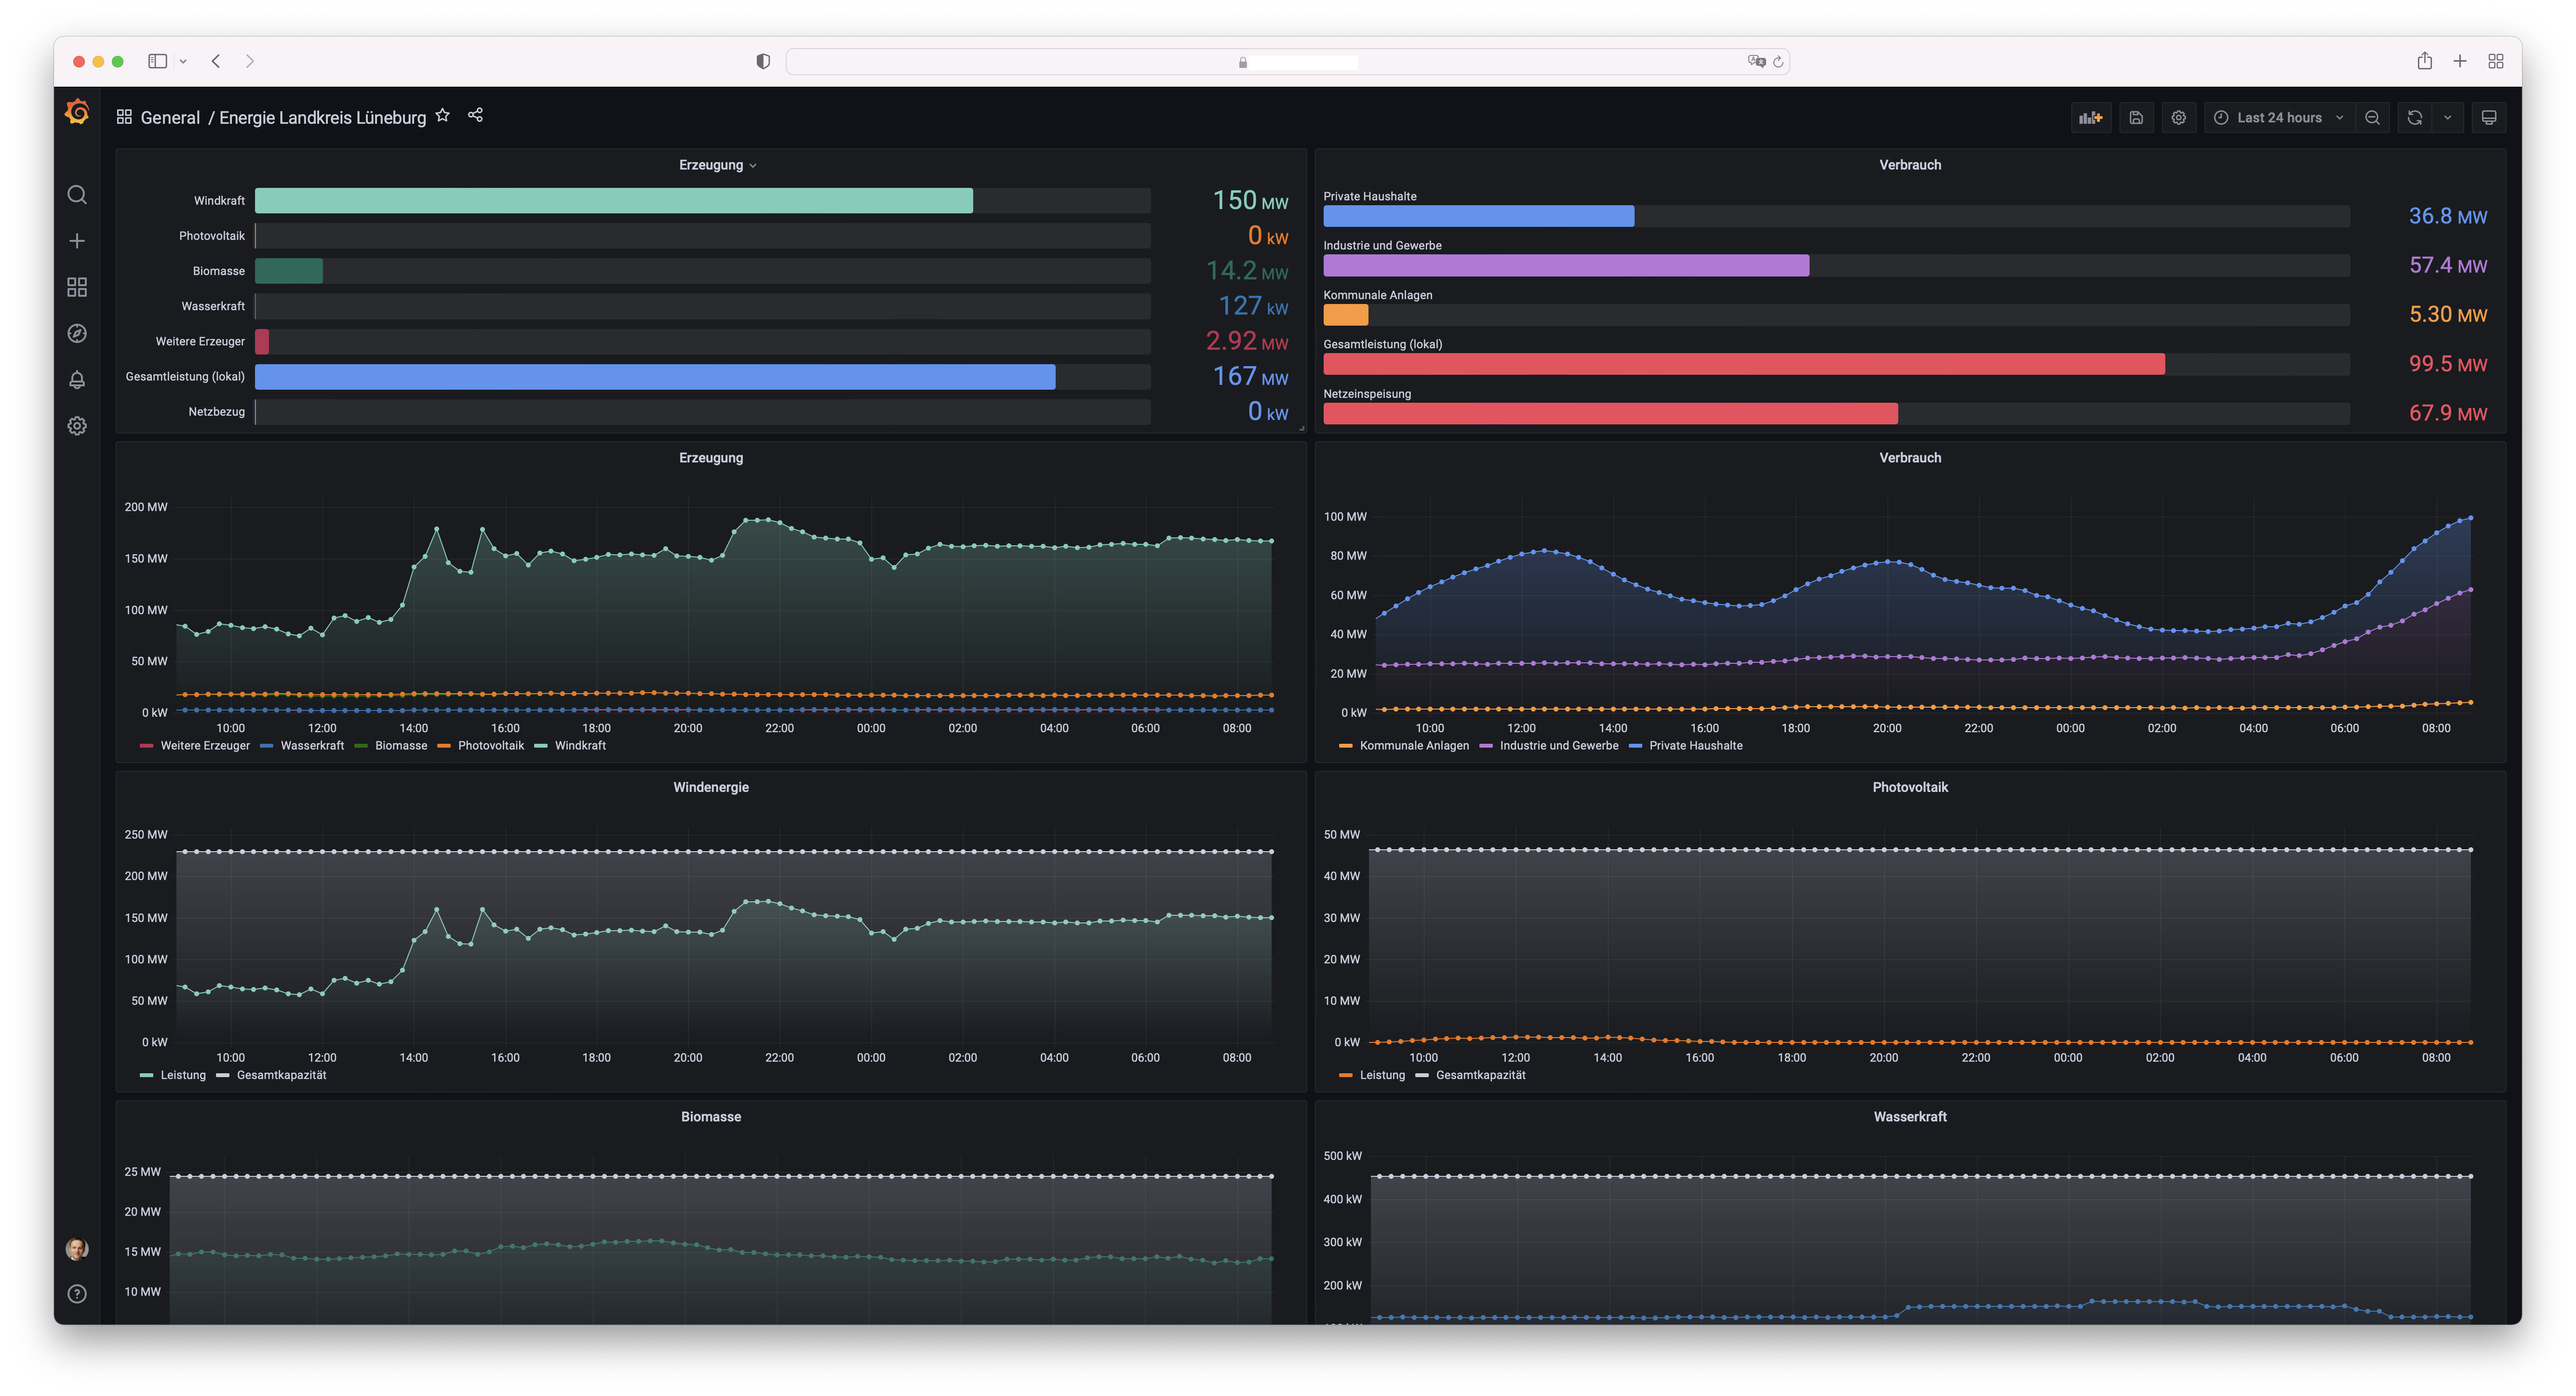
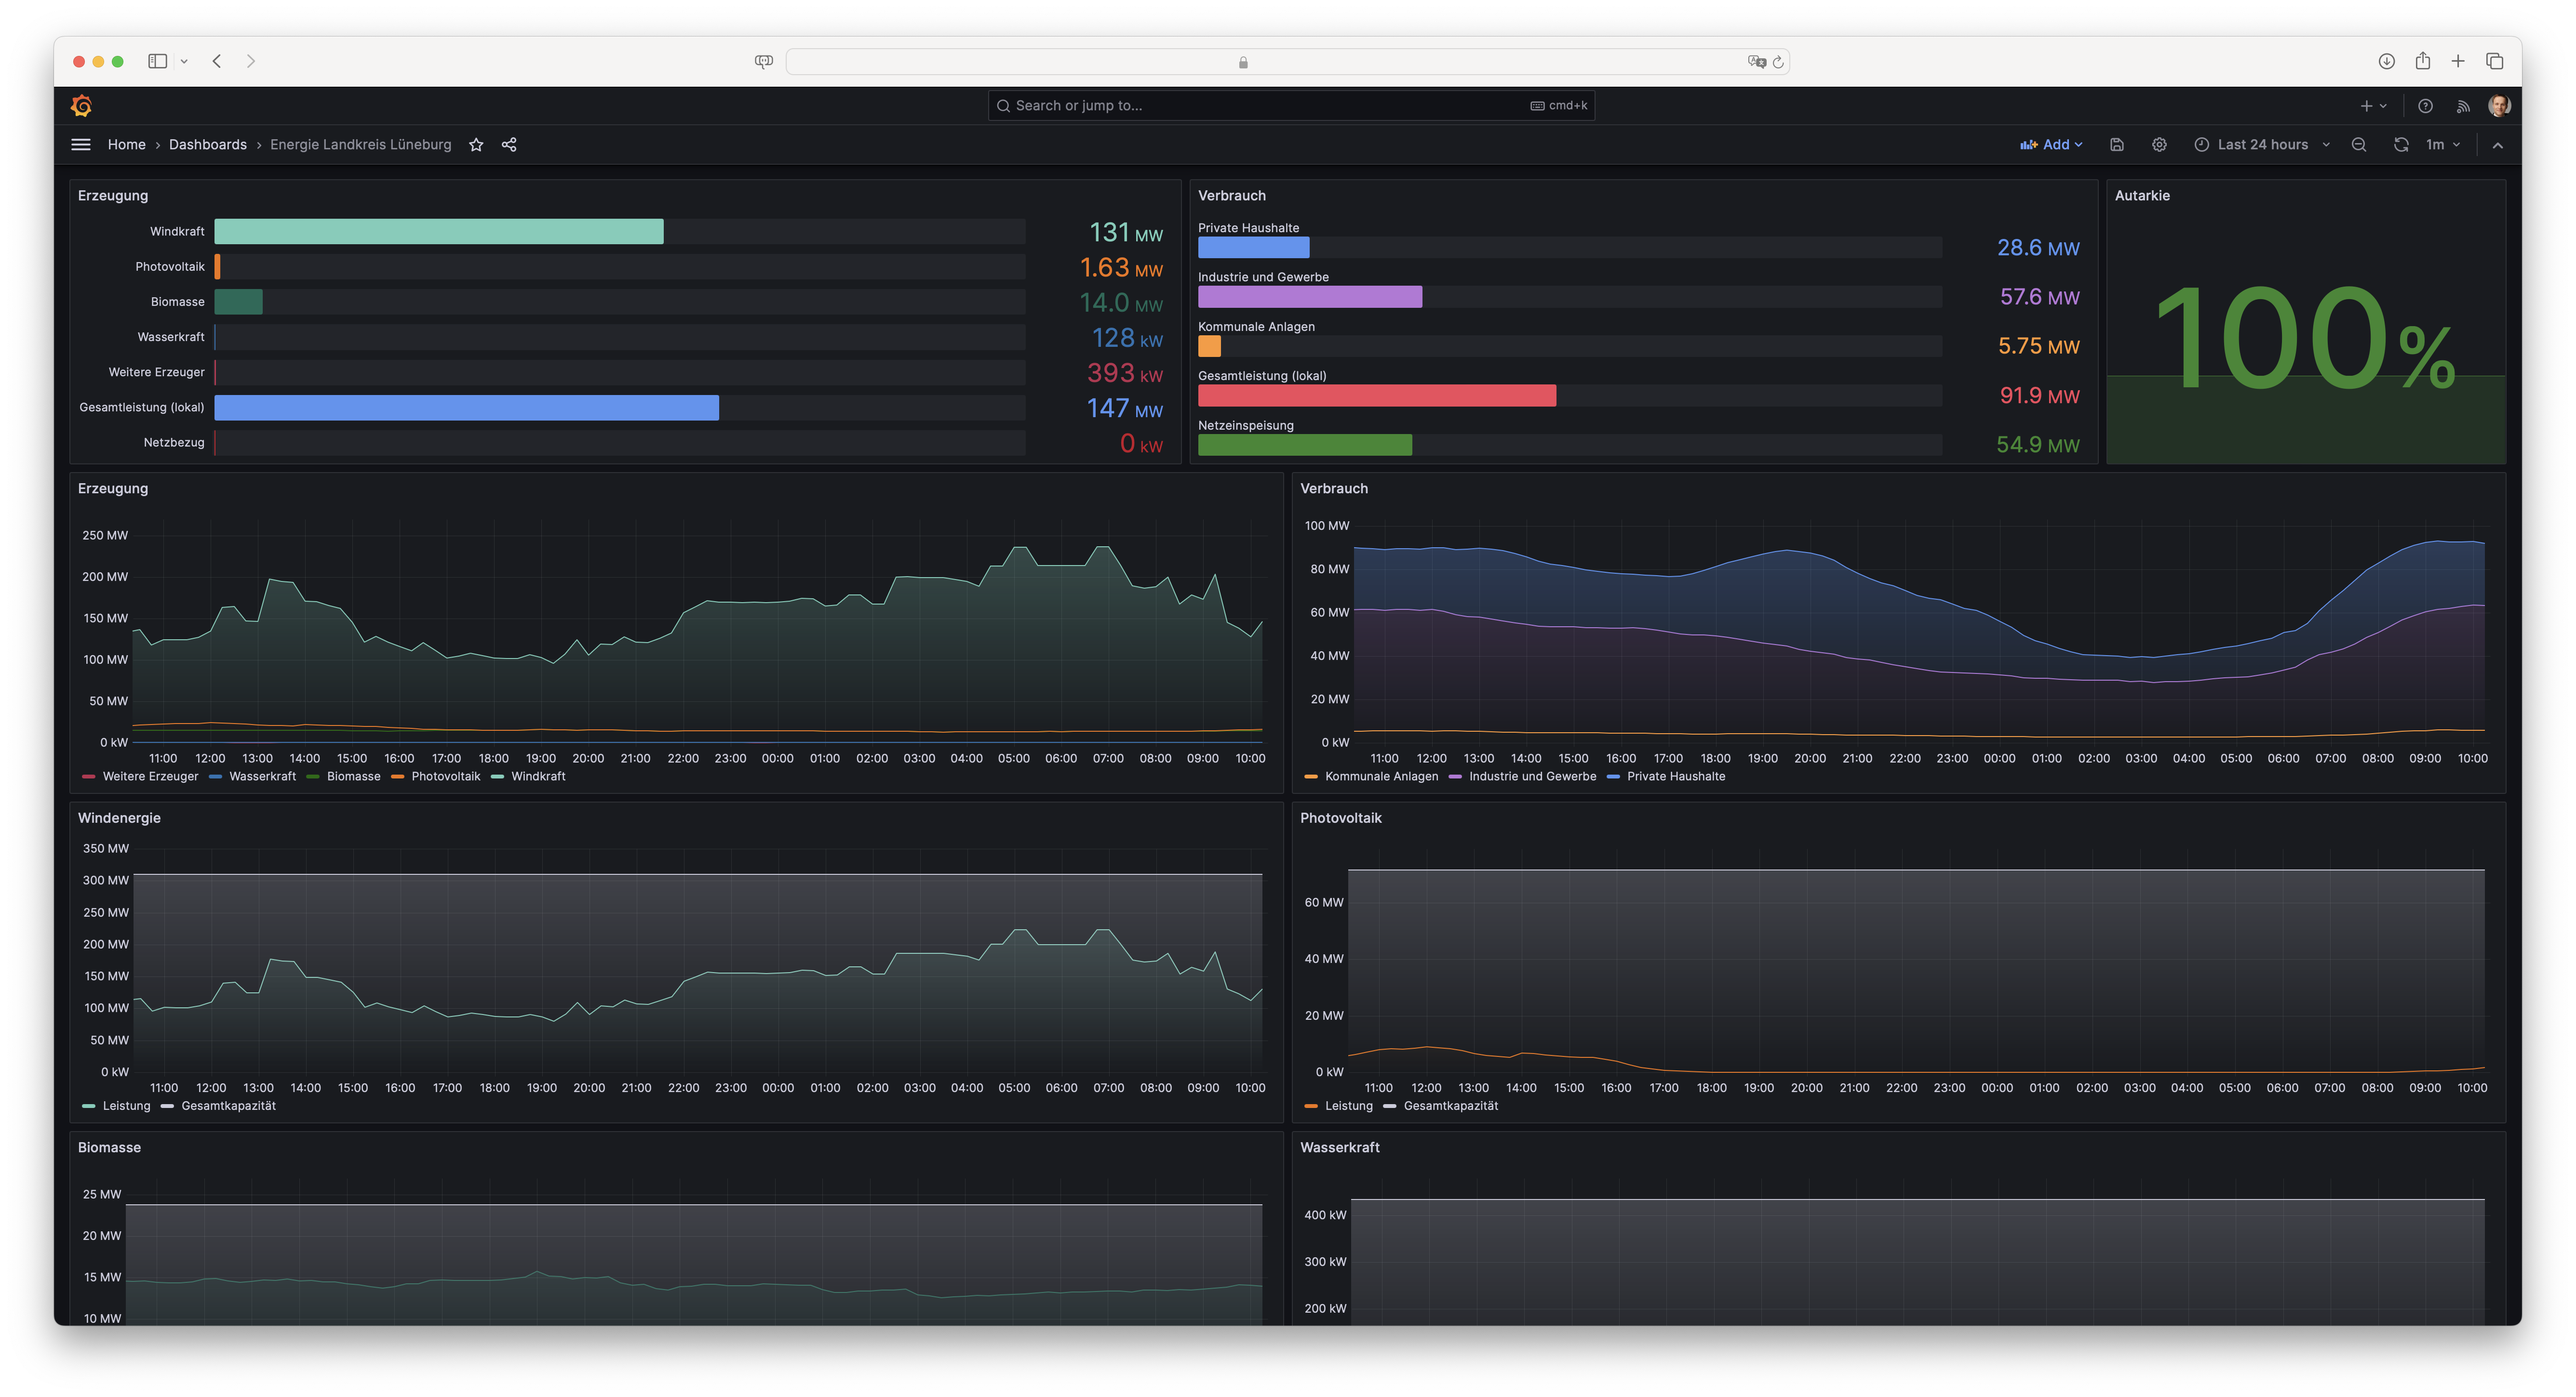
Added ability to add more than one region code

diff --git a/energiemonitor-exporter.py b/energiemonitor-exporter.py
@@ -6,37 +6,41 @@ import time
 import requests
 from prometheus_client import start_http_server, Gauge
 
-autarky = Gauge('autarky', "Autoarky of region")
-energy_mix = Gauge('energy_mix', 'Energy mix of region')
-num_installations = Gauge('num_installations', 'Number of installations', ['type', 'name'])
-usage = Gauge('usage', 'Current amount per time period in kWh', ['type', 'name'])
-installed_capacity = Gauge('installed_capacity', 'Total installed capacity', ['type', 'name'])
+autarky = Gauge('autarky', "Autoarky of region", ['region_code'])
+energy_mix = Gauge('energy_mix', 'Energy mix of region', ['region_code'])
+num_installations = Gauge('num_installations', 'Number of installations', ['region_code', 'type', 'name'])
+usage = Gauge('usage', 'Current amount per time period in kWh', ['region_code', 'type', 'name'])
+installed_capacity = Gauge('installed_capacity', 'Total installed capacity', ['region_code', 'type', 'name'])
 
 if __name__ == '__main__':
-    print("EnergieMonitor exporter v0.1\n")
-    region_code = '03355'
+    print("EnergieMonitor exporter v0.2\n")
+    region_codes = ['03355', '03355022']
     server_port = 3325
 
-    print("Region code: " + str(region_code) + "\n")
-    print("Port       : " + str(server_port) + "\n")
+    print("Region codes: " + str(region_codes) + "\n")
+    print("Port        : " + str(server_port) + "\n")
 
     start_http_server(server_port)
     while True:
-        response = json.loads(requests.get('https://api-energiemonitor.eon.com/meter-data?regionCode=' + region_code)
-                              .content.decode('UTF-8'))
+        for rg_id in region_codes:
+            response = json.loads(requests.get('https://api-energiemonitor.eon.com/meter-data?regionCode=' + rg_id)
+                                  .content.decode('UTF-8'))
 
-        autarky.set(response['autarky'])
-        energy_mix.set(response['energyMix'])
+            autarky.labels(region_code=rg_id).set(response['autarky'])
+            energy_mix.labels(region_code=rg_id).set(response['energyMix'])
 
-        for consumption in response['consumptions']['list']:
-            name = consumption['name']
-            num_installations.labels(type='consumption', name=name).set(consumption['numberOfInstallations'])
-            usage.labels(type='consumption', name=name).set(consumption['usage'])
+            for consumption in response['consumptions']['list']:
+                name = consumption['name']
+                (num_installations.labels(region_code=rg_id, type='consumption', name=name).set(
+                    consumption['numberOfInstallations']))
+                usage.labels(region_code=rg_id, type='consumption', name=name).set(consumption['usage'])
 
-        for feed_in in response['feedIn']['list']:
-            name = feed_in['name']
-            num_installations.labels(type='feed_in', name=name).set(feed_in['numberOfInstallations'])
-            usage.labels(type='feed_in', name=name).set(feed_in['usage'])
-            installed_capacity.labels(type='feed_in', name=name).set(feed_in['installedCapacity'])
+            for feed_in in response['feedIn']['list']:
+                name = feed_in['name']
+                num_installations.labels(region_code=rg_id, type='feed_in', name=name).set(
+                    feed_in['numberOfInstallations'])
+                usage.labels(region_code=rg_id, type='feed_in', name=name).set(feed_in['usage'])
+                installed_capacity.labels(region_code=rg_id, type='feed_in', name=name).set(
+                    feed_in['installedCapacity'])
 
         time.sleep(300)
